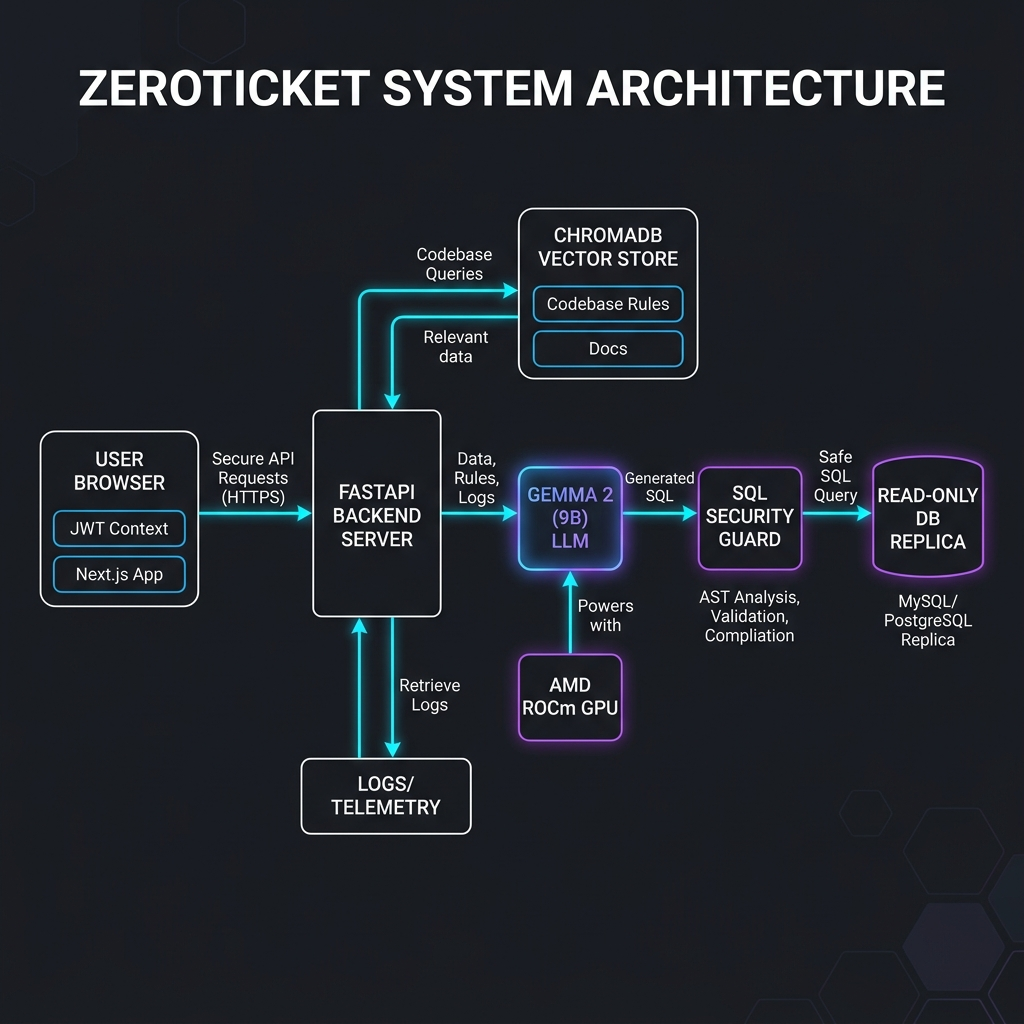
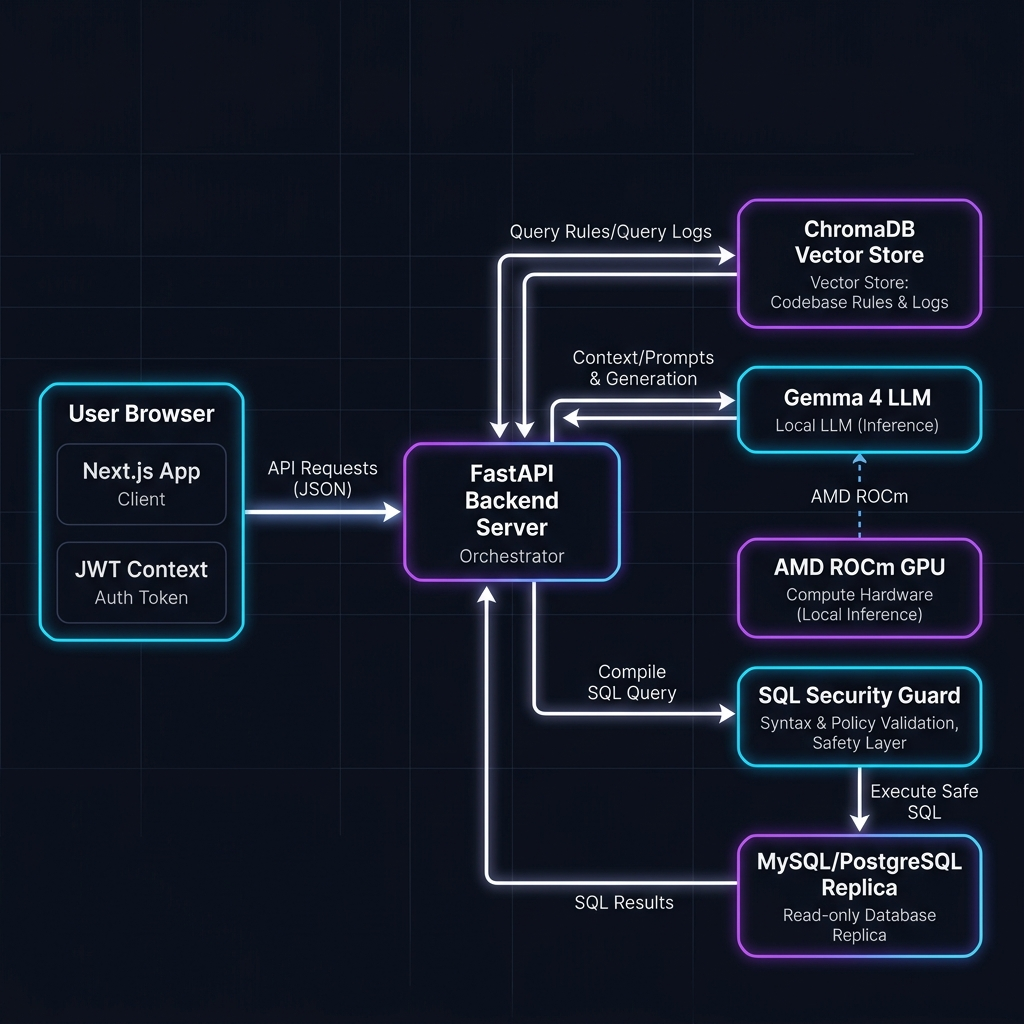
docs: regenerate system architecture flowchart with Gemma 4, and add support workflow shift comparison diagram to pain points

Changed region(s): [[0.0312, 0.1875, 0.9688, 0.9688], [0.0625, 0.0625, 0.9375, 0.125], [0.3125, 0.5938, 0.4375, 0.8125]]

diff --git a/HACKATHON_SUBMISSION.md b/HACKATHON_SUBMISSION.md
@@ -121,6 +121,8 @@ To submit a competitive project for the **Unicorn Track**, your pitch deck must 
 
 ### 🛝 Slide 2: The Pain Point (Developer Burnout)
 *   **Headline:** The B2B SaaS Support Bottleneck
+*   **Visual:** Comparison flowchart of the Support-as-Code Workflow Shift:
+    ![ZeroTicket Support Workflow Shift](./screenshots/support_workflow_shift.png)
 *   **Bullet Points:**
     *   **Level 2/3 Escalations:** Complex customer inquiries (e.g., payment discrepancies, webhook failures) require engineers to stop coding and investigate.
     *   **The Cost:** High-value software engineers waste up to 20% of their work week digging through raw server logs, checking database tables, and tracing codebase routes.

diff --git a/README.md b/README.md
@@ -16,6 +16,8 @@ Most customer service bots (like Intercom's Fin) only read static FAQs, Notion p
 *   **Old Flow:** End User ➔ Ask technical question ➔ Support agent escalates ➔ IT/Developer stops building features ➔ Developer digs through server logs, codebase routing, and production replica DBs ➔ Developer writes explanation.
 *   **New Flow:** End User ➔ Ask technical question ➔ ZeroTicket checks the code rules, live logs, and database replica securely ➔ Explains instantly ➔ IT/Developers focus strictly on coding new features and resolving real system bugs.
 
+![ZeroTicket Workflow Shift](./screenshots/support_workflow_shift.png)
+
 **ZeroTicket solves this.** It is a self-contained support-as-code engine. It ingests your codebase, connects to a read-only database replica, and parses live logs. When a user asks a complex technical question, the AI reasons over actual code rules and live data to resolve the ticket in seconds.
 
 *   **Hands-Off Automated Syncing:** Every time you push updates to GitHub, ZeroTicket automatically re-ingests and updates its vector index via webhook integrations—zero manual configuration required.